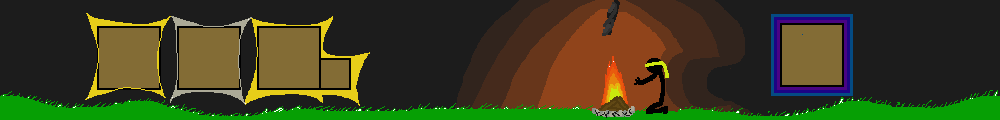
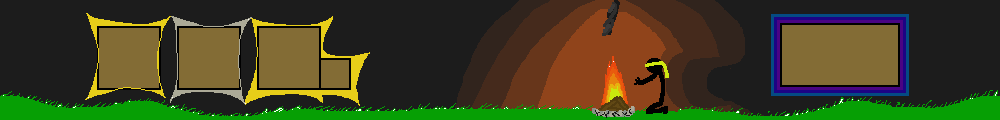
UI update

Changed region(s): [[0.837, 0.1, 0.93, 0.8]]

diff --git a/public/js/game_drawing.js b/public/js/game_drawing.js
@@ -155,90 +155,106 @@ function find_animation(player){
 function UI(){
   var UI_hud_left = document.getElementById('UI_hud_left');
   var UI_hud_right = document.getElementById('UI_hud_right');
+  var heart = document.getElementById('heart');
   if(UI_left_plr !== null){
     if(document.getElementById('main').height < 1070){
-      var left_hp_pro = players[UI_left_plr].health/1000;
-      var left_fame_pro = players[UI_left_plr].fame/500;
-      ctx.fillStyle = '#00b300';
-        ctx.fillRect(200+xoffset+57,33,243 * left_hp_pro,13);
-      ctx.fillStyle = '#0099cc';
-        ctx.fillRect(200+xoffset+57,54,243*left_fame_pro,13);
-      ctx.drawImage(UI_hud_left,200+xoffset,0,300,75);
-      ctx.fillStyle = '#000000';
-      ctx.font = "17px Arial";
-      ctx.fillText(players[UI_left_plr].name,300+xoffset,20);
-
-      for(var i = 0; i < players[UI_left_plr].lives; i++){
-        var heart = document.getElementById('heart');
-        ctx.drawImage(heart,202+xoffset+(i*13),43,26,26);
-      }
-
-      var right_hp_pro = players[UI_right_plr].health/1000;
-      var right_fame_pro = players[UI_right_plr].fame/500;
-      ctx.fillStyle = '#00b300';
-        ctx.fillRect(802+xoffset + (243*(1-right_hp_pro)),33,243*right_hp_pro,13);
-      ctx.fillStyle = '#0099cc';
-        ctx.fillRect(802+xoffset + (243*(1-right_fame_pro)),54,243*right_fame_pro,13);
-      ctx.drawImage(UI_hud_right,800+xoffset,0,300,75);
-      ctx.fillStyle = '#000000';
-      ctx.font = "17px Arial";
-      ctx.fillText(players[UI_right_plr].name,880+xoffset,20);
-      for(var i = 0; i < players[UI_right_plr].lives; i++){
-        var heart = document.getElementById('heart');
-        ctx.drawImage(heart,1076+xoffset-(i*13),43,26,26);
-      }
-
-      var UI_toolbar = document.getElementById('UI_toolbar');
-      ctx.drawImage(UI_toolbar,xoffset+340,document.getElementById('main').height -72,600,72);
-
-      if(charges > 0){
-        var item = document.getElementById(item_name);
-        ctx.fillStyle="#000000";
-        ctx.font="20px Arial";
-        ctx.drawImage(item,xoffset+340+154,document.getElementById('main').height -72 + 17,38,38);
-        ctx.fillText(charges+"",xoffset+340+200,document.getElementById('main').height -72+53);
-      }
+      draw_HUD_small();
+      draw_toolbar_small();
     }else{
-      var left_hp_pro = players[UI_left_plr].health/1000;
-      var left_fame_pro = players[UI_left_plr].fame/500;
-      ctx.fillStyle = '#00b300';
-        ctx.fillRect(xoffset-200+114,66,486 * left_hp_pro,26);
-      ctx.fillStyle = '#0099cc';
-        ctx.fillRect(xoffset-200+114,66+42,486*left_fame_pro,26);
-      ctx.drawImage(UI_hud_left,xoffset-200,0);
-      ctx.fillStyle = '#000000';
-      ctx.font = "30px Arial";
-      ctx.fillText(players[UI_left_plr].name,xoffset-200+180,40);
-
-      for(var i = 0; i < players[UI_left_plr].lives; i++){
-        var heart = document.getElementById('heart');
-        ctx.drawImage(heart,xoffset-198+(i*27),88,50,50);
-      }
-
-      var right_hp_pro = players[UI_right_plr].health/1000;
-      var right_fame_pro = players[UI_right_plr].fame/500;
-      ctx.fillStyle = '#00b300';
-        ctx.fillRect(document.getElementById('main').width - 400-xoffset + (486*(1-right_hp_pro)),66,486*right_hp_pro,26);
-      ctx.fillStyle = '#0099cc';
-        ctx.fillRect(document.getElementById('main').width - 400-xoffset + (486*(1-right_fame_pro)),66+42,486*right_fame_pro,26);
-      ctx.drawImage(UI_hud_right,document.getElementById('main').width - 400-xoffset,0);
-      ctx.fillStyle = '#000000';
-      ctx.font = "30px Arial";
-      ctx.fillText(players[UI_right_plr].name,document.getElementById('main').width - 265-xoffset,40);
-      for(var i = 0; i < players[UI_right_plr].lives; i++){
-        var heart = document.getElementById('heart');
-        ctx.drawImage(heart,document.getElementById('main').width + 150 -xoffset-(i*27),88,50,50);
-      }
-
-      var UI_toolbar = document.getElementById('UI_toolbar');
-      ctx.drawImage(UI_toolbar,xoffset+240,document.getElementById('main').height - 120);
-      if(charges > 0){
-        var item = document.getElementById(item_name);
-        ctx.fillStyle="#000000";
-        ctx.font="30px Arial";
-        ctx.drawImage(item,xoffset+240+258,document.getElementById('main').height -120 + 28,64,64);
-        ctx.fillText(charges+"",xoffset+240+330,document.getElementById('main').height - 120 + 85);
-      }
+      draw_HUD_big();
+      draw_toolbar_big();
     }
+  }
+}
+
+function draw_HUD_small(){
+  var left_hp_pro = players[UI_left_plr].health/1000;
+  var left_fame_pro = players[UI_left_plr].fame/500;
+  var heart = document.getElementById('heart');
+  ctx.drawImage(document.getElementById('profile_left_'+UI_left_plr),200+xoffset+5,5,44,39);
+  ctx.fillStyle = '#00b300';
+    ctx.fillRect(200+xoffset+57,33,243 * left_hp_pro,13);
+  ctx.fillStyle = '#0099cc';
+    ctx.fillRect(200+xoffset+57,54,243*left_fame_pro,13);
+  ctx.drawImage(UI_hud_left,200+xoffset,0,300,75);
+  ctx.fillStyle = '#000000';
+  ctx.font = "17px Arial";
+  ctx.fillText(players[UI_left_plr].name,300+xoffset,20);
+
+  for(var i = 0; i < players[UI_left_plr].lives; i++){
+    ctx.drawImage(heart,202+xoffset+(i*13),43,26,26);
+  }
+
+  var right_hp_pro = players[UI_right_plr].health/1000;
+  var right_fame_pro = players[UI_right_plr].fame/500;
+  ctx.drawImage(document.getElementById('profile_right_'+UI_right_plr),800+xoffset+251,5,44,39);
+  ctx.fillStyle = '#00b300';
+    ctx.fillRect(802+xoffset + (243*(1-right_hp_pro)),33,243*right_hp_pro,13);
+  ctx.fillStyle = '#0099cc';
+    ctx.fillRect(802+xoffset + (243*(1-right_fame_pro)),54,243*right_fame_pro,13);
+  ctx.drawImage(UI_hud_right,800+xoffset,0,300,75);
+  ctx.fillStyle = '#000000';
+  ctx.font = "17px Arial";
+  ctx.fillText(players[UI_right_plr].name,880+xoffset,20);
+  for(var i = 0; i < players[UI_right_plr].lives; i++){
+    ctx.drawImage(heart,1076+xoffset-(i*13),43,26,26);
+  }
+}
+function draw_toolbar_small(){
+  var UI_toolbar = document.getElementById('UI_toolbar');
+  ctx.drawImage(UI_toolbar,xoffset+340,document.getElementById('main').height -72,600,72);
+
+  if(charges > 0){
+    var item = document.getElementById(item_name);
+    ctx.fillStyle="#000000";
+    ctx.font="20px Arial";
+    ctx.drawImage(item,xoffset+340+154,document.getElementById('main').height -72 + 17,38,38);
+    ctx.fillText(charges+"",xoffset+340+200,document.getElementById('main').height -72+53);
+  }
+}
+
+function draw_HUD_big(){
+  var left_hp_pro = players[UI_left_plr].health/1000;
+  var left_fame_pro = players[UI_left_plr].fame/500;
+  var heart = document.getElementById('heart');
+  ctx.drawImage(document.getElementById('profile_left_'+UI_left_plr),xoffset-200+10,10);
+  ctx.fillStyle = '#00b300';
+    ctx.fillRect(xoffset-200+114,66,486 * left_hp_pro,26);
+  ctx.fillStyle = '#0099cc';
+    ctx.fillRect(xoffset-200+114,66+42,486*left_fame_pro,26);
+  ctx.drawImage(UI_hud_left,xoffset-200,0);
+  ctx.fillStyle = '#000000';
+  ctx.font = "30px Arial";
+  ctx.fillText(players[UI_left_plr].name,xoffset-200+180,40);
+
+  for(var i = 0; i < players[UI_left_plr].lives; i++){
+    ctx.drawImage(heart,xoffset-198+(i*27),88,50,50);
+  }
+
+  var right_hp_pro = players[UI_right_plr].health/1000;
+  var right_fame_pro = players[UI_right_plr].fame/500;
+  ctx.drawImage(document.getElementById('profile_right_'+UI_right_plr), document.getElementById('main').width - 400-xoffset+503,10);
+  ctx.fillStyle = '#00b300';
+    ctx.fillRect(document.getElementById('main').width - 400-xoffset + (486*(1-right_hp_pro)),66,486*right_hp_pro,26);
+  ctx.fillStyle = '#0099cc';
+    ctx.fillRect(document.getElementById('main').width - 400-xoffset + (486*(1-right_fame_pro)),66+42,486*right_fame_pro,26);
+  ctx.drawImage(UI_hud_right,document.getElementById('main').width - 400-xoffset,0);
+  ctx.fillStyle = '#000000';
+  ctx.font = "30px Arial";
+  ctx.fillText(players[UI_right_plr].name,document.getElementById('main').width - 265-xoffset,40);
+  for(var i = 0; i < players[UI_right_plr].lives; i++){
+    ctx.drawImage(heart,document.getElementById('main').width + 150 -xoffset-(i*27),88,50,50);
+  }
+}
+function draw_toolbar_big(){
+  var UI_toolbar = document.getElementById('UI_toolbar');
+  ctx.drawImage(UI_toolbar,xoffset+240,document.getElementById('main').height - 120);
+
+  if(charges > 0){
+    var item = document.getElementById(item_name);
+    ctx.fillStyle="#000000";
+    ctx.font="30px Arial";
+    ctx.drawImage(item,xoffset+240+258,document.getElementById('main').height -120 + 28,64,64);
+    ctx.fillText(charges+"",xoffset+240+332,document.getElementById('main').height - 120 + 85);
   }
 }

diff --git a/public/js/server_listener.js b/public/js/server_listener.js
@@ -249,7 +249,6 @@ socket.on('fame_update', function(fame){
 });
 socket.on('healthup',function(player){
   players[player].health = 1000;
-  document.getElementById('Health'+player).innerHTML = 1000;
 });
 socket.on('fall',function(player){
   players[player].dir = 0;
